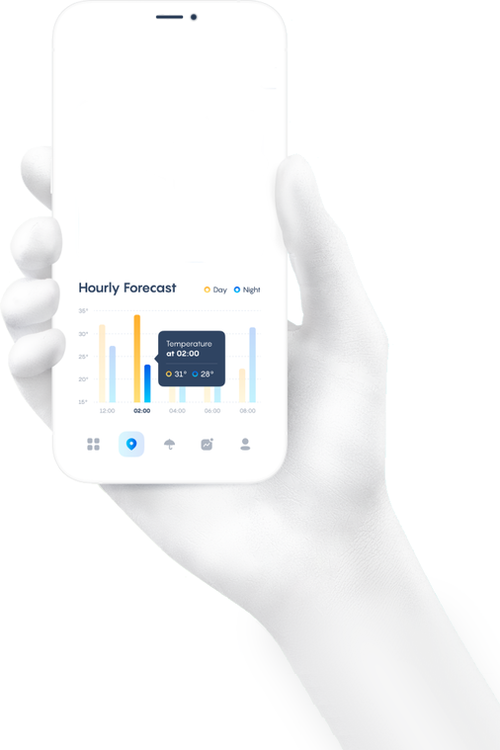
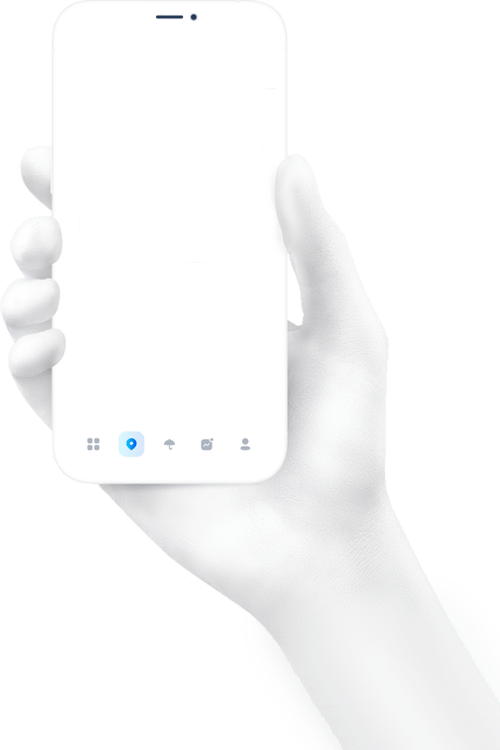
feat: add phone item

Changed region(s): [[0.15, 0.368, 0.51, 0.552], [0.39, 0.368, 0.51, 0.3987]]

diff --git a/weather/src/app/shared/shared.module.ts b/weather/src/app/shared/shared.module.ts
@@ -23,6 +23,7 @@ import { VisibilityPipe } from './pipe/visibilityPipe';
 import { HumidityColorDirective } from './directives/humidity-color.directive';
 import { WeatherIcoDirective } from './directives/weather-ico.directive';
 import { RainPipe } from './pipe/rainPipe';
+import { ItemFiveDayForecastComponent } from './components/item-five-day-forecast/item-five-day-forecast.component';
 
 
 @NgModule({
@@ -46,7 +47,8 @@ import { RainPipe } from './pipe/rainPipe';
         VisibilityPipe,
         HumidityColorDirective,
         WeatherIcoDirective,
-        RainPipe
+        RainPipe,
+        ItemFiveDayForecastComponent
     ],
     imports: [
         MaterialModule,
@@ -70,7 +72,8 @@ import { RainPipe } from './pipe/rainPipe';
         VisibilityPipe,
         HumidityColorDirective,
         WeatherIcoDirective,
-        RainPipe
+        RainPipe,
+        ItemFiveDayForecastComponent
     ]
 })
 export class SharedModule { }

diff --git a/weather/src/app/main-page/components/phone-main-info/phone-main-info.component.scss b/weather/src/app/main-page/components/phone-main-info/phone-main-info.component.scss
@@ -36,19 +36,13 @@
     }
 }
 
-.phone-container_forecast {
-    background: darkkhaki;
-    width: 100%;
-    height: 150px;
-}
-
 .phone-container_date {
     height: 20px;
     width: 170px;
     overflow: hidden;
 }
 
-.phone-container_date__visible{
+.phone-container_date__visible {
     display: flex;
     gap: 7px;
     align-items: center;
@@ -76,4 +70,32 @@
     background: #E6F3FD;
     border: 1px solid $button-hover;
     color: $button-hover;
+}
+
+.phone-container_forecast {
+    width: 200px;
+    padding: 15px;
+}
+
+.phone-forecast_items-container {
+    display: flex;
+    overflow-x: auto;
+    height: 85px;
+    margin-bottom: 15px;
+}
+
+.phone-forecast_title {
+    @include title-medium;
+}
+
+.phone-forecast-item {
+    height: 75px;
+    width: 65px;
+    border-radius: 15px;
+    background: $color-white;
+}
+
+.test_one {
+    width: 60px;
+    transform: scale(0.6);
 }

diff --git a/weather/src/app/page-info/page.info.module.ts b/weather/src/app/page-info/page.info.module.ts
@@ -12,7 +12,6 @@ import { UvIndexComponent } from './components/uv-index/uv-index.component';
 import { VisibilityComponent } from './components/visibility/visibility.component';
 import { PressureComponent } from './components/pressure/pressure.component';
 import { FiveDayForecastComponent } from './components/five-day-forecast/five-day-forecast.component';
-import { ItemFiveDayForecastComponent } from './components/item-five-day-forecast/item-five-day-forecast.component';
 import { SharedModule } from '../shared/shared.module';
 
 @NgModule({
@@ -26,7 +25,6 @@ import { SharedModule } from '../shared/shared.module';
         VisibilityComponent,
         PressureComponent,
         FiveDayForecastComponent,
-        ItemFiveDayForecastComponent,
     ],
     imports: [MaterialModule, TranslocoRootModule, CommonModule, SharedModule],
     providers: [

diff --git a/weather/src/app/main-page/components/phone-main-info/phone-main-info.component.html b/weather/src/app/main-page/components/phone-main-info/phone-main-info.component.html
@@ -14,7 +14,15 @@
             </div>
         </div>
         <app-phone-general-info [item]="weatherInfoDate[activeIndex]"></app-phone-general-info>
-        <div class="phone-container_forecast"></div>
+        <div class="phone-container_forecast">
+            <p class="phone-forecast_title">Hourly Forecast</p>
+            <div class="phone-forecast_items-container">
+                <div class="test_one" *ngFor="let item of weatherInfoForecast.list; index as i">
+                    <app-item-five-day-forecast *ngIf="i >= (activeIndex*8) && i <= ((activeIndex*8)+8)" [item]="item"
+                        [isOpen]="false"></app-item-five-day-forecast>
+                </div>
+            </div>
+        </div>
     </div>
     <ng-template #loadingBlock>
         <mat-spinner class="spinner-info"></mat-spinner>

diff --git a/weather/src/app/shared/components/item-five-day-forecast/item-five-day-forecast.component.html b/weather/src/app/shared/components/item-five-day-forecast/item-five-day-forecast.component.html
@@ -6,5 +6,5 @@
     <img class="item-forecast-img" src="./../../../../assets/icoWeather/defaultIco.gif" appWeatherIco
         [weatherCode]="item.weather[0].id" alt="weatherIco">
     <p class="item-forecast-day">{{item.main.temp_max | tempPipe | async}}</p>
-    <div class="material-symbols-outlined item-more-info" (click)="openPopUp()">page_info</div>
+    <div *ngIf="isOpen" class="material-symbols-outlined item-more-info" (click)="openPopUp()">page_info</div>
 </div>

diff --git a/weather/src/app/main-page/components/phone-main-info/phone-main-info.component.ts b/weather/src/app/main-page/components/phone-main-info/phone-main-info.component.ts
@@ -37,7 +37,7 @@ export class PhoneMainInfoComponent implements OnChanges, OnDestroy {
     this.weatherInfoForecast$ = this.openweathermapApiService.getWeather<IOpenweathermapForecastFive>(this.coor, 'forecast'
     ).subscribe(info => {
       this.weatherInfoDate = info.list.filter((value, index) => index % 8 === 0);
-      this.weatherInfoForecast = info
+      this.weatherInfoForecast = info;
     });
   }
 

diff --git a/weather/src/app/page-info/components/five-day-forecast/five-day-forecast.component.html b/weather/src/app/page-info/components/five-day-forecast/five-day-forecast.component.html
@@ -1,4 +1,4 @@
 <div class="fiveDay-container">
     <app-item-five-day-forecast *ngFor="let item of (itemArray | async)?.list; index as i" [item]="item"
-        [index]="i"></app-item-five-day-forecast>
+        [index]="i" [isOpen]="true"></app-item-five-day-forecast>
 </div>

diff --git a/weather/src/app/main-page/components/phone-general-info/phone-general-info.component.scss b/weather/src/app/main-page/components/phone-general-info/phone-general-info.component.scss
@@ -4,7 +4,7 @@
 
 .phone-container_info {
     width: 180px;
-    height: 135px;
+    height: 150px;
     background: linear-gradient(90deg, rgba(2, 201, 251, 1) 0%, rgba(1, 150, 243, 1) 50%, rgba(1, 92, 234, 1) 100%);
     border-radius: 15px;
     padding: 10px;

diff --git a/weather/src/app/shared/components/item-five-day-forecast/item-five-day-forecast.component.ts b/weather/src/app/shared/components/item-five-day-forecast/item-five-day-forecast.component.ts
@@ -13,7 +13,7 @@ export class ItemFiveDayForecastComponent {
 
   @Input() item: IItemForecast;
   @Input() index: number;
-  day: number;
+  @Input() isOpen: boolean;
 
   constructor(private store: Store<IAppStore>) { }
 
